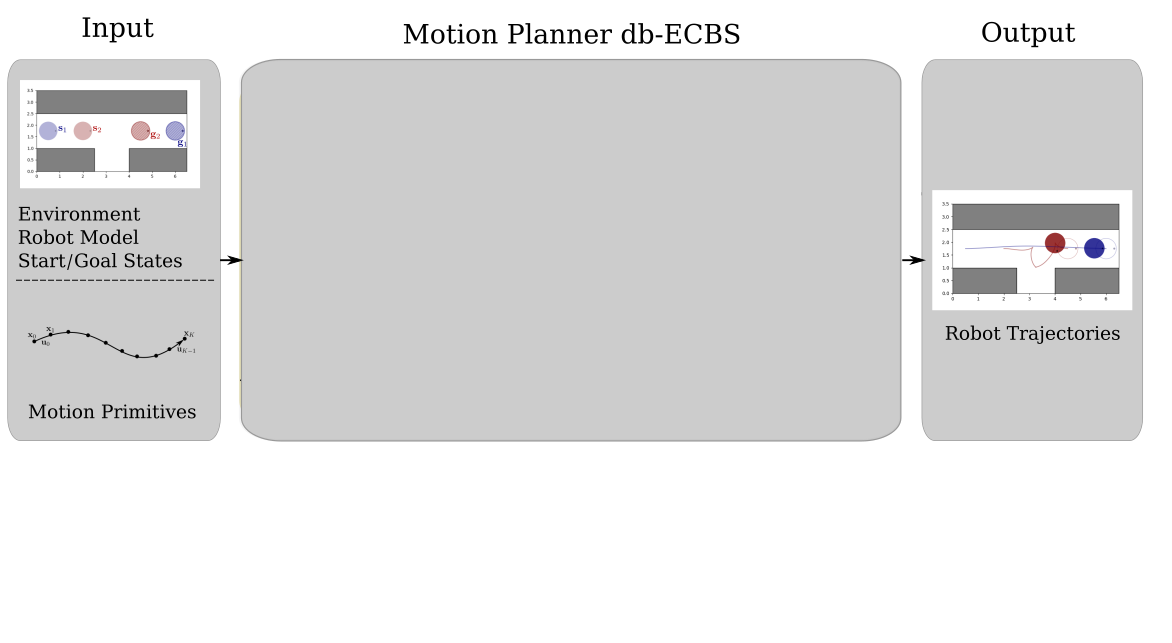
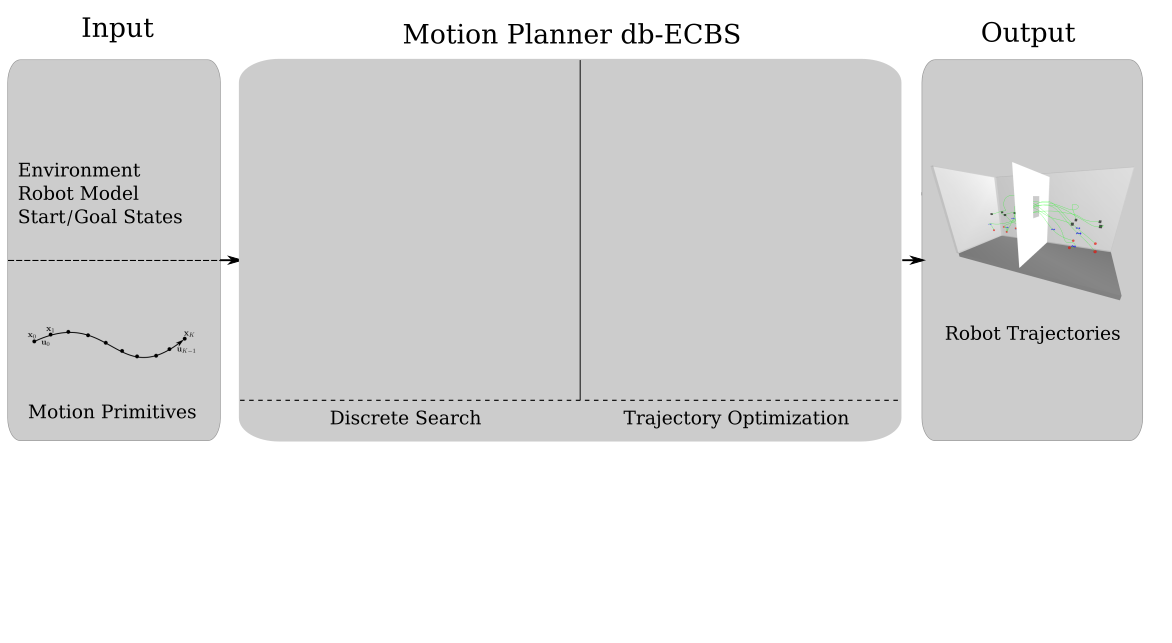
dbecbs flowcharts

diff --git a/phd-defense.md b/phd-defense.md
@@ -294,9 +294,75 @@ Safe, Fast Motion Planning
 Robots can deviate from planned trajectories, leading to crash.
 :::::
 
+# Part II. Contributions
+
 # Part II. Interaction Awareness for Motion Planning {#preview}
 
 ![](media/image/phd-defense/flowchart-dbecbs-1.png)
 <div style="position:absolute; bottom:20px; left:40px; right:40px; font-size:0.75em; color:gray;">
 Moldagalieva, A., Ortiz-Haro, J., Hönig, W. (2025) <i>db-ECBS: Interaction-Aware Multirobot Kinodynamic Motion Planning</i>, IEEE Transactions on Robotics (T-RO).
 </div>
+
+# db-ECBS: Interaction-Aware Motion Planner {#preview}
+
+::: {.r-stack}
+
+:::{.element: class="fragment current-visible"}
+![](media/image/phd-defense/flowchart-dbecbs-2.png)
+
+::::
+:::{.element: class="fragment current-visible"}
+![](media/image/phd-defense/flowchart-dbecbs-3.png)
+::::
+:::{.element: class="fragment current-visible"}
+![](media/image/phd-defense/flowchart-dbecbs-4.png)
+:::: 
+:::{.element: class="fragment current-visible"}
+![](media/image/phd-defense/flowchart-dbecbs-5.png)
+::::
+:::{.element: class="fragment"}
+![](media/image/phd-defense/flowchart-dbecbs-6.png)
+::::
+:::
+
+# db-ECBS: Results {#preview}
+
+
+# Presentation Overview {#preview}
+
+<ul class="overview">
+  <li>Introduction: Multi-Robot Coordination</li>
+  <li>Kinodynamic Motion Planning for Multi-Robot Systems </li>
+</ul>
+
+<div class="three-columns">
+
+<div>
+<b>Part I</b><br>
+Time-Optimal Motion Planning
+<img src="media/image/phd-defense/partI.png" width="50%">
+
+</div>
+
+<div>
+<b>Part II</b><br>
+Interaction Awareness for Motion Planning
+<img src="media/image/phd-defense/partII.png" width="50%">
+
+</div>
+
+<div>
+<b><span style="color:#0072B2;">Part III</span></b><br>
+<span style="color:#0072B2;">Safe, Fast Motion Planning</span>
+<img src="media/image/phd-defense/partIII.png" width="50%">
+
+<div style="font-size:0.75em;">
+  <strong>(Ch. 7 – ICAPS 2026)</strong><br>
+
+</div>
+
+</div>
+
+</div>
+
+- Conclusion and Future Work
